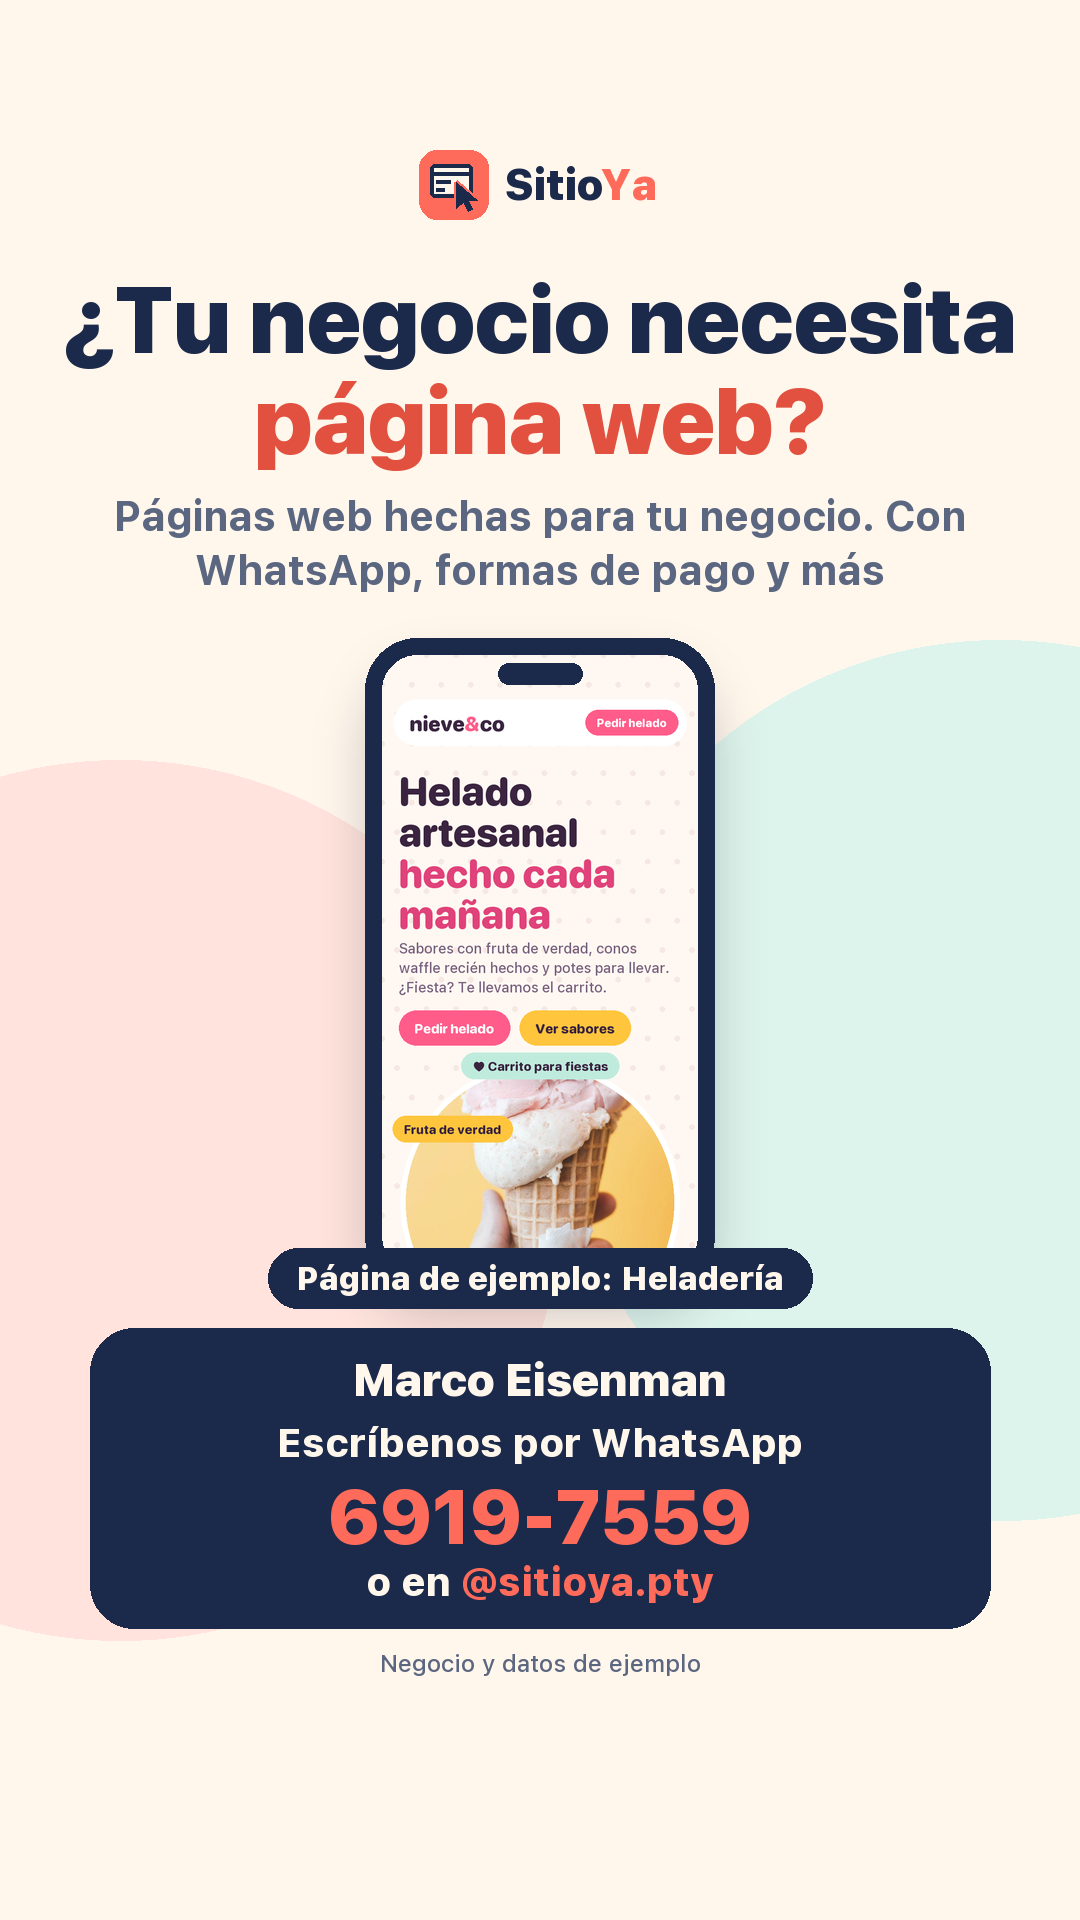
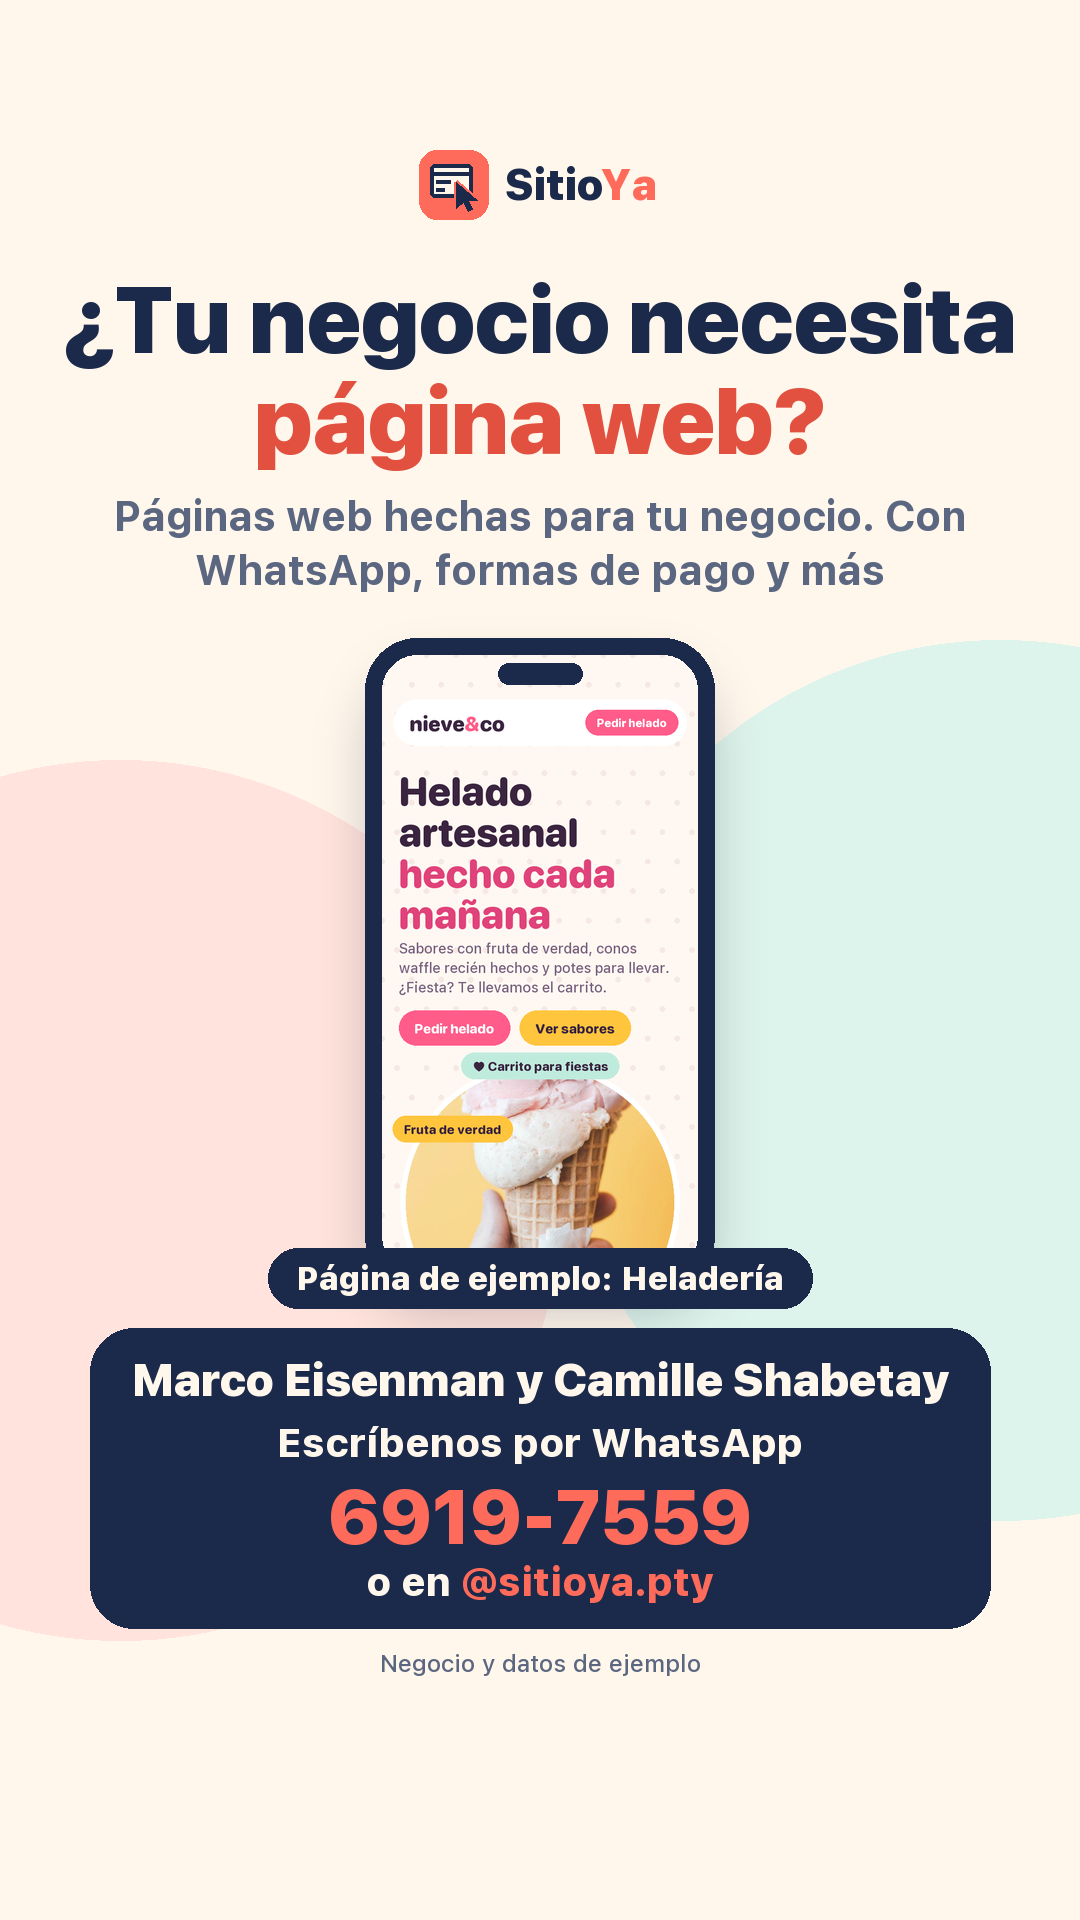
[Claude] Arte promo con los 2 socios: Marco Eisenman y Camille Shabetay
Claude-Session: https://claude.ai/code/session_01HjM58LyjDP46JMonKLDErg

diff --git a/tools/redes_promo.py b/tools/redes_promo.py
@@ -21,7 +21,7 @@ TITULO = ('¿Tu negocio necesita', 'página web?')
 SUBTITULO = 'Páginas web hechas para tu negocio. Con WhatsApp, formas de pago y más'
 TELEFONO = '6919-7559'
 USUARIO = '@sitioya.pty'
-NOMBRE = 'Marco Eisenman'  # va arriba del contacto (pedido 26-nov)
+NOMBRE = 'Marco Eisenman y Camille Shabetay'  # los dos socios (Marco, 26-nov)
 NOTA = 'Negocio y datos de ejemplo'
 
 
